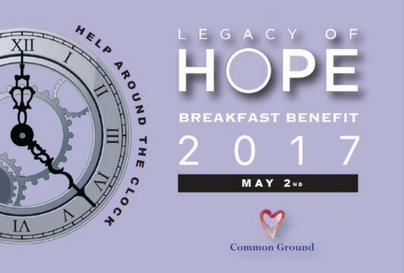
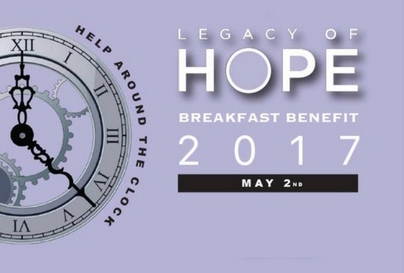
Add event registration button

Changed region(s): [[0.5644, 0.7619, 0.802, 0.9377]]

diff --git a/src/components/LatestPosts/index.css b/src/components/LatestPosts/index.css
@@ -4,6 +4,17 @@
         width: 100%;
         height: 10%;
     }
+    .eventButton {
+        border: none;
+        border-radius: 4px;
+        padding: 5px 10px;
+        margin-top: 200px;
+        margin-left: 140px;
+        background-color: #8b0000;
+        color: white;
+        font-weight: 100;
+        cursor: pointer;
+    }
 
 
 }
@@ -14,6 +25,12 @@
         width: 100%;
         height: 10%;
     }
+    .eventButton {
+        border: none;
+        border-radius: 8px;
+        padding: 10px 10px;
+        margin-top: 180px;
+    }
 }
 
 @media only screen and (min-width: 768px) and (max-width: 991px) {
@@ -22,6 +39,23 @@
         width: 100%;
         height: 10%;
     }
+    .eventBanner {
+        margin: 0 auto;
+        height: auto;
+        width: 41%;
+        margin-bottom: 30px;
+    }
+    .eventButton {
+        border: none;
+        border-radius: 8px;
+        padding: 10px 10px;
+        margin-top: 180px;
+        margin-left: 130px;
+        background-color: #8b0000;
+        color: white;
+        font-weight: 100;
+        cursor: pointer;
+    }
 }
 
 @media only screen and (min-width: 992px) and (max-width: 1199px) {
@@ -29,6 +63,23 @@
         text-align: center;
         width: 100%;
         height: 10%;
+    }
+    .eventBanner {
+        margin: 0 auto;
+        width: 41%;
+        height: 250px;
+        margin-bottom: 30px;
+    }
+    .eventButton {
+        border: none;
+        border-radius: 8px;
+        padding: 10px 20px;
+        margin-top: 190px;
+        margin-left: 130px;
+        background-color: #8b0000;
+        color: white;
+        transition: ease 0.2s;
+        cursor: pointer;
     }
 
 }
@@ -39,6 +90,23 @@
         width: 100%;
         height: 10%;
     }
+    .eventBanner {
+    margin: 0 auto;
+    width: 41%;
+    height: 350px;
+    margin-bottom: 30px;
+}
+    .eventButton {
+        border: none;
+        border-radius: 8px;
+        padding: 10px 20px;
+        margin-top: 190px;
+        margin-left: 130px;
+        background-color: #8b0000;
+        color: white;
+        transition: ease 0.2s;
+        cursor: pointer;
+    }
     _:ms-lang(x), .latestPosts {
     }
 }
@@ -46,11 +114,16 @@
 .eventBanner {
     background-image: url("./LegacyOfHopeInvitation.png");
     background-repeat: no-repeat;
+    background-size: cover;
     display: flex;
     justify-content: center;
     align-items: center;
-    margin: 0 auto;
-    width:41%;
+    /*margin: 0 auto;*/
+    /*margin: 0 20px 0 20px;*/
+    max-width:100%;
     height: 250px;
     background-color: #dfe3ee;
+}
+.eventButton:hover {
+    background-color: #be0000;
 }

diff --git a/src/components/LatestPosts/index.js b/src/components/LatestPosts/index.js
@@ -21,7 +21,11 @@ const LatestPosts = (props, { collection }) => {
         { "Latest News and Events" }
       </h2>
       <div className={styles.eventBanner}>
-        {"Event Banner Here"}
+        <a href="/posts/legacy-of-hope-breakfast/">
+            <button className={styles.eventButton}>
+                Click here to learn more
+            </button>
+        </a>
       </div>
       <PagesList pages={ latestPosts } />
     </div>

diff --git a/content/posts/legacy-of-hope-breakfast.md b/content/posts/legacy-of-hope-breakfast.md
@@ -1,0 +1,55 @@
+---
+title: 
+layout: Post
+#layout: Locations
+hero: /assets/LoHBI.png
+---
+<div style=
+    " 
+    height: auto;
+    width: 100%; 
+    margin: 0 auto;
+    display: flex;
+    justify-content: center;
+    ">
+    <h1>Legacy of Hope Breakfast</h3>
+</div>
+<dl>
+    <dt></dt>
+    <dd>
+        <p style="margin-right: 20px;"> Tuesday, May 2, 2017 7:30am-9am
+        <br><strong>Oakland Hills Country Club</strong>
+        <br> 3951 W. Mape Road, Bloomfield Hills, MI 48301
+        </p>
+        <p> Register to attend our annual fundraising event. The event will feature inspirational stories and
+         information. Please come out and support Common Ground.
+        </p>
+    </dd>
+</dl>
+<div style=
+    "margin: 0 auto;
+     height: auto;
+     width: 20%;
+     display: flex;
+     justify-content: center;
+     ">
+     
+     
+     <a href="https://commongroundhelps.z2systems.com/np/clients/commongroundhelps/eventRegistration.jsp?event=5&">
+     
+        <button style=
+        "
+            border: none;
+            border-radius: 5px;
+            padding: 10px 20px;
+            background-color: #8b0000;
+            color: white;
+            transition: ease 0.2s;
+            cursor: pointer;
+            font-weight: 100;
+        ">
+            Register Today
+        </button>
+    </a>
+</div>
+<hr />

diff --git a/content/posts/legal-clinic-notice.md b/content/posts/legal-clinic-notice.md
@@ -2,7 +2,7 @@
 title: Free Legal Aid
 date: 2017-03-25
 layout: Post
-hero:
+hero: /assets/gethelp.jpg
 ---
 Get Free Legal Advice from Common Ground's Legal Clinic
 
